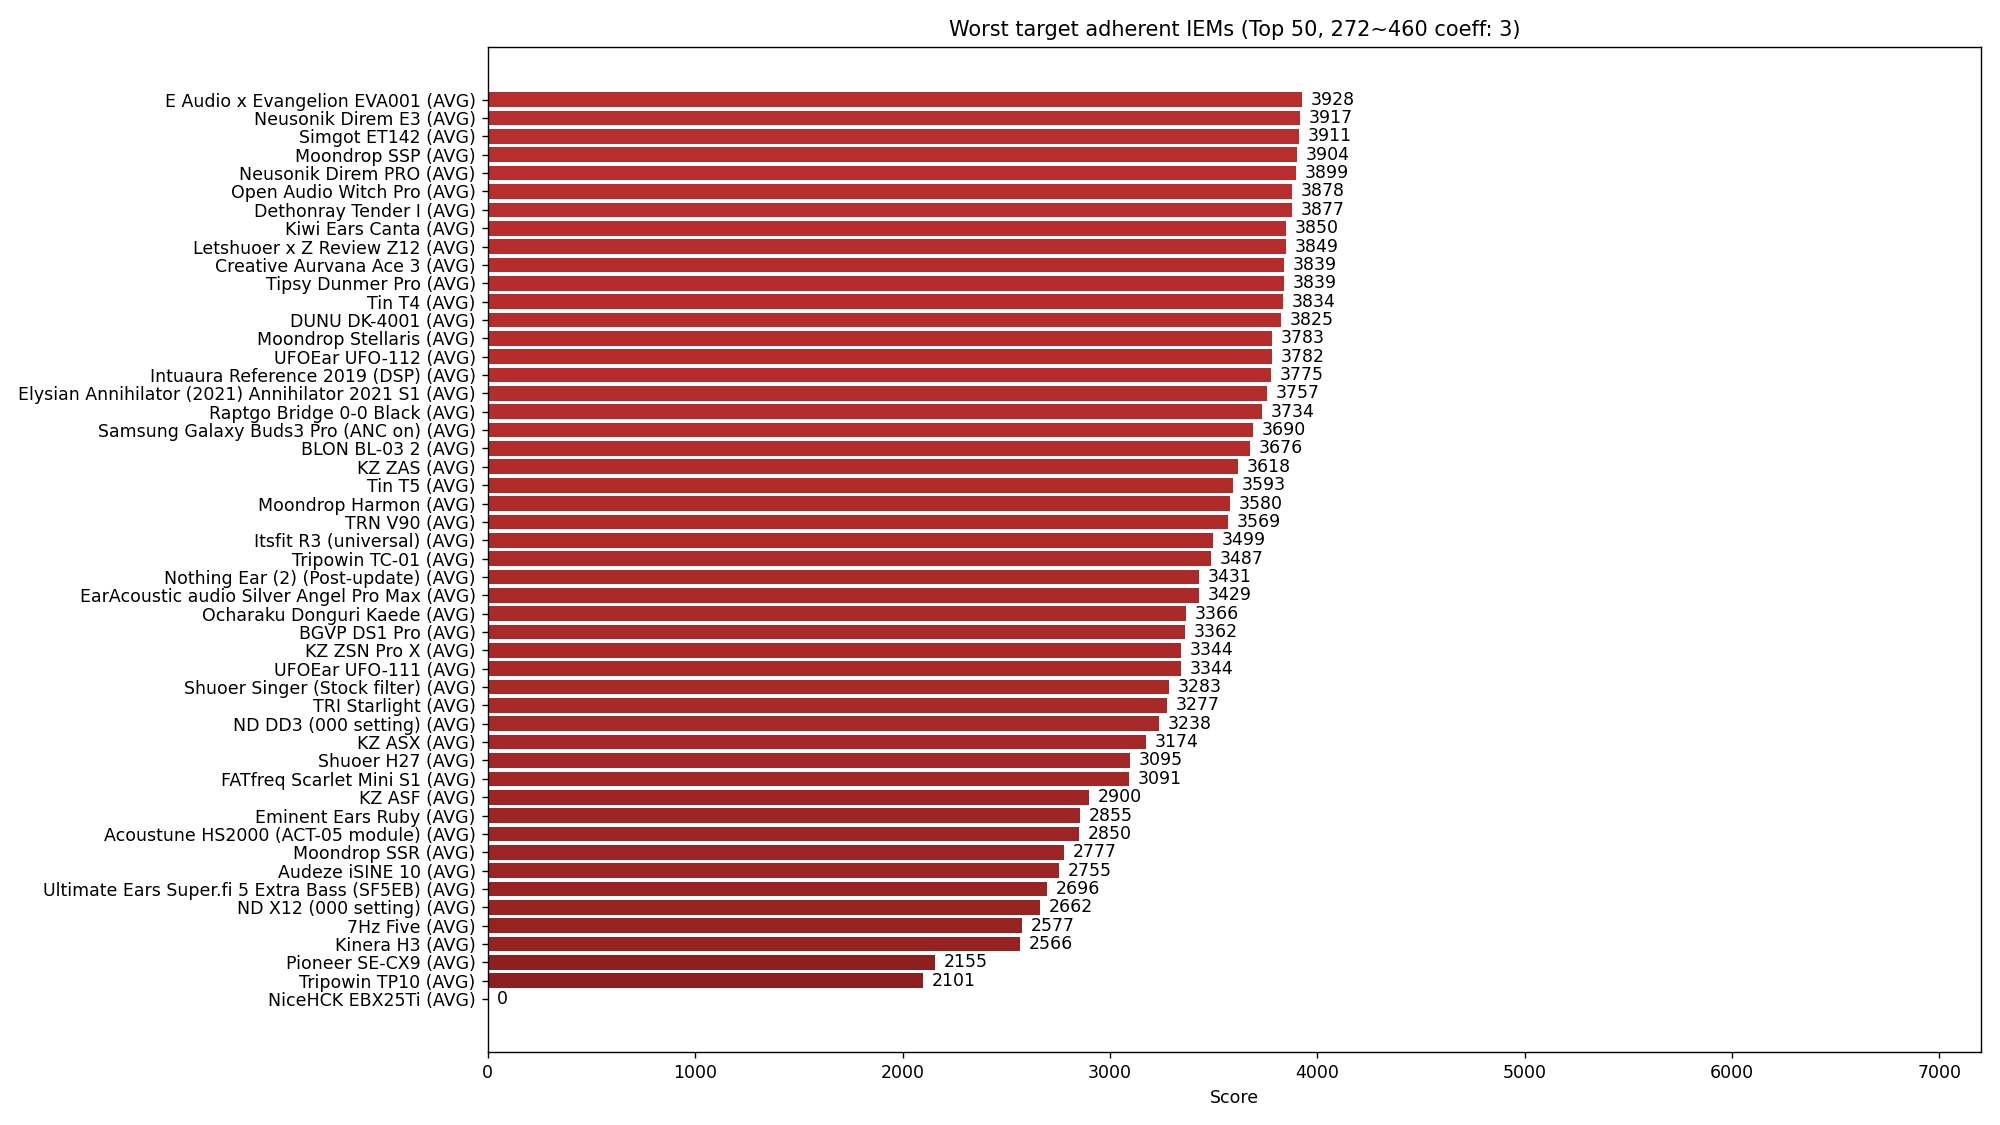
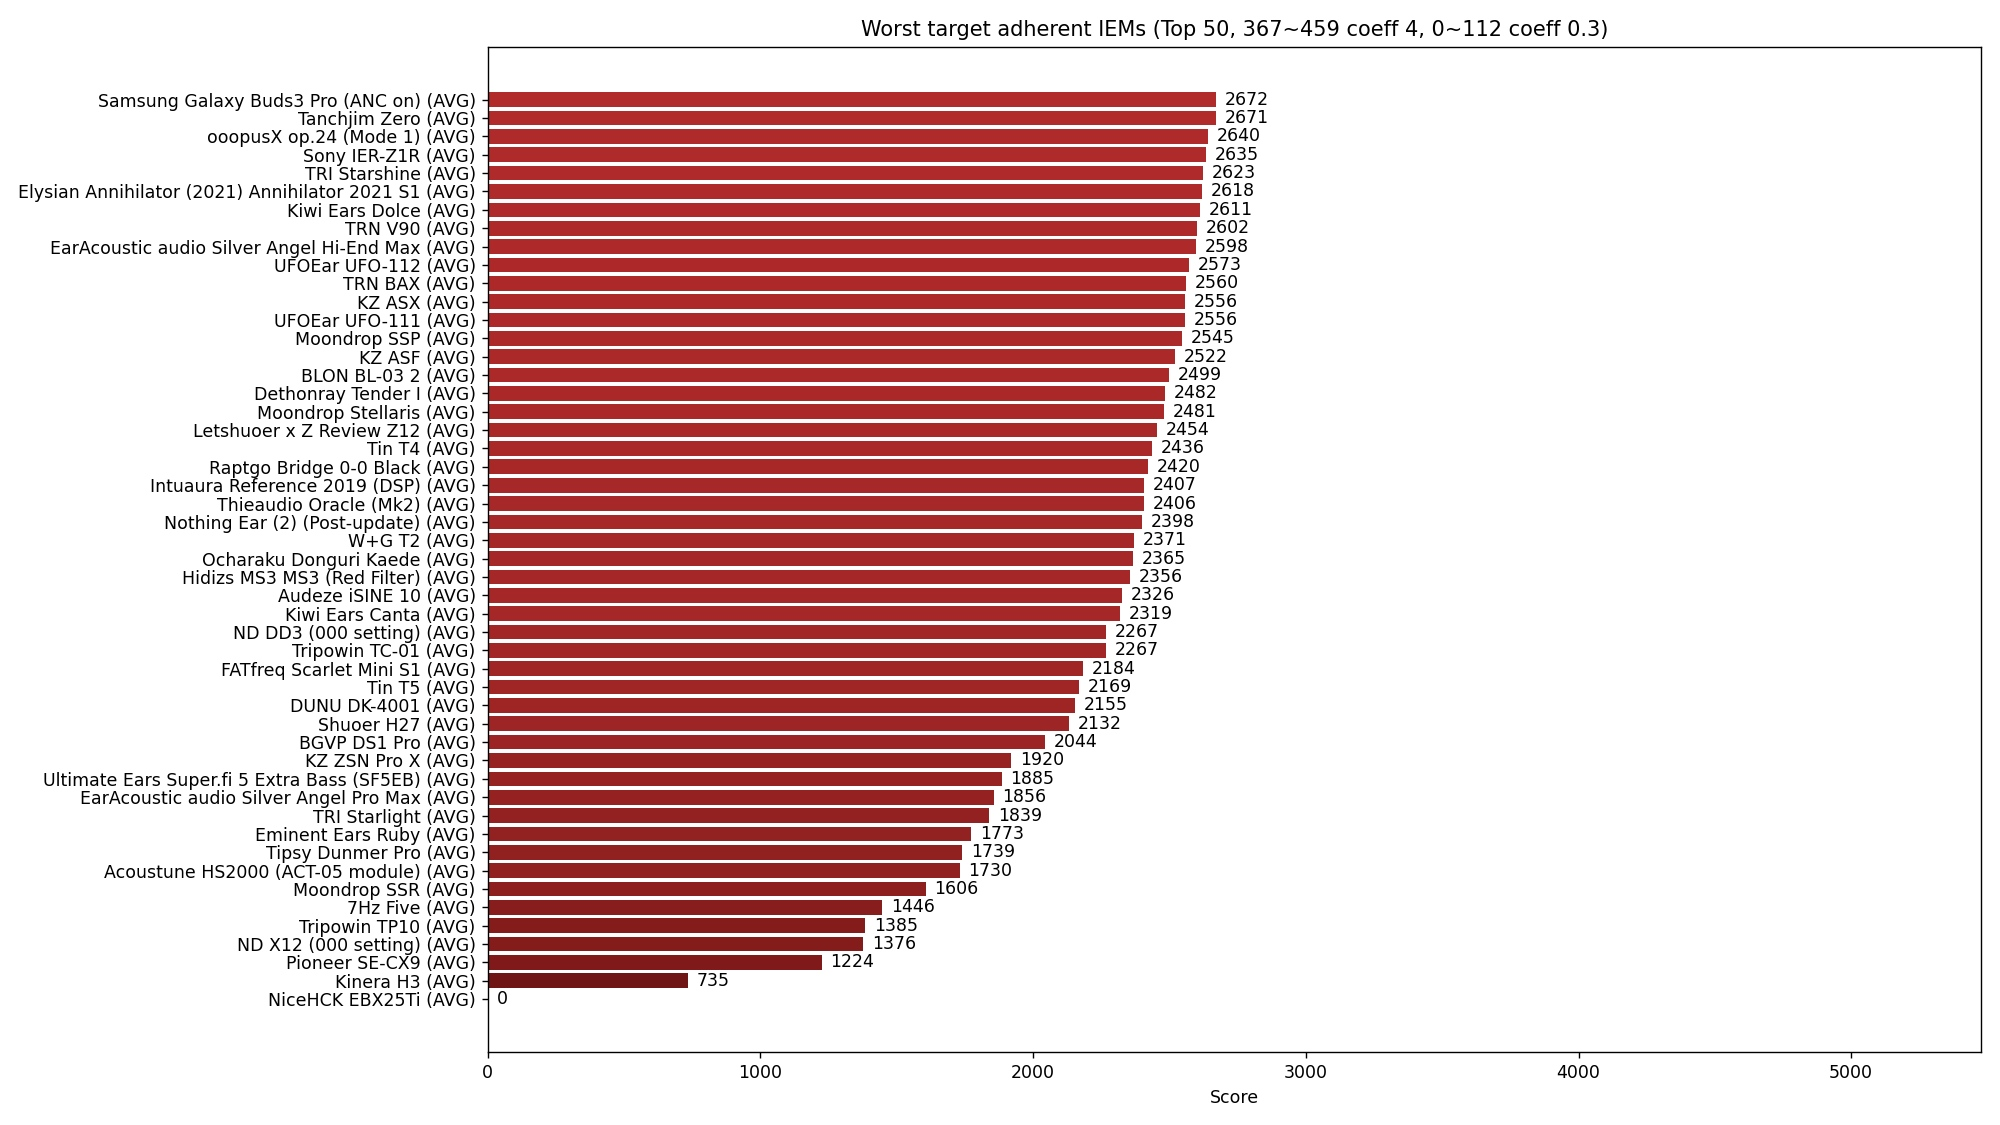
Adjust coeffs

diff --git a/find_closest_fr.py b/find_closest_fr.py
@@ -17,10 +17,17 @@ NORMALIZATION_POINT = 223  # 223 is ~500hz, see generated target from average.py
 NORMALIZATION_SPL = 60  # in dB but probably does not matter
 EXCLUDE_PROJECTS = True  # Excluse prototypes not on the market
 
-# Gives more weight to the upper midrange/treble
-WEIGHT_START = 272  # 272: ~1kHz, 367: ~4kHz
-WEIGHT_END = 460  # 432: ~10kHz, 460: ~17kHz
-COEFF = 3
+# Coeffs
+PINNA_WEIGHT_START = 367  # 272: ~1kHz, 367: ~4kHz
+PINNA_WEIGHT_END = 459  # 432: ~10kHz, 459: ~15kHz
+PINNA_COEFF = 4
+
+BASS_WEIGHT_START = 0
+BASS_WEIGHT_END = 112  # 112: 100Hz
+BASS_COEFF = 0.3
+
+# Ignore FR above x Hz. 463: ~16kHz, should probably not be changed
+DATA_LIMIT = 463
 
 files = sorted(Path().glob(FREQUENCY_RESPONSES))
 frequency_response_dict_unnormalized = {}
@@ -37,6 +44,7 @@ target_freq, target_spl_unnormalized = read_file(TARGET)
 target_spl = normalize(
     np.interp(np.log10(common_freq), np.log10(target_freq), target_spl_unnormalized)
 )
+target_spl_sliced = target_spl[:DATA_LIMIT]
 
 for iem, (freq, spl) in frequency_response_dict_unnormalized.items():
     # Interpolate and normalize spl data
@@ -46,12 +54,16 @@ for iem, (freq, spl) in frequency_response_dict_unnormalized.items():
 # Score the delta vs. the target
 deltas: Dict[str, int] = {}
 weights = np.ones_like(common_freq, dtype=float)
-weights[WEIGHT_START:WEIGHT_END] = COEFF
+weights[PINNA_WEIGHT_START:PINNA_WEIGHT_END] = PINNA_COEFF
+weights[BASS_WEIGHT_START:BASS_WEIGHT_END] = BASS_COEFF
+weights_sliced = weights[:DATA_LIMIT]  # To match list size of target_spl_sliced for np
 
 deltas: Dict[str, int] = {}
 for iem, spl in spl_dict.items():
     if not EXCLUDE_PROJECTS or "project" not in iem.lower():
-        deltas[iem] = int(np.sum(np.abs(target_spl - spl) * weights))
+        deltas[iem] = int(
+            np.sum(np.abs(target_spl_sliced - spl[:DATA_LIMIT]) * weights_sliced)
+        )
 
 deltas = dict(sorted(deltas.items(), key=lambda item: item[1]))
 deltas_iem = list(deltas.keys())
@@ -93,7 +105,7 @@ if GRAPH_OF_SCORES:
 
     plt.xlabel("Score")
     plt.title(
-        f"Most target adherent IEMs (Top {SHOW}, {WEIGHT_START}~{WEIGHT_END} coeff: {COEFF})"
+        f"Most target adherent IEMs (Top {SHOW}, {PINNA_WEIGHT_START}~{PINNA_WEIGHT_END} coeff {PINNA_COEFF}, {BASS_WEIGHT_START}~{BASS_WEIGHT_END} coeff {BASS_COEFF})"
     )
     plt.bar_label(plot, padding=5)
     # Show the hole iem name
@@ -131,7 +143,7 @@ if GRAPH_OF_SCORES:
 
     plt.xlabel("Score")
     plt.title(
-        f"Worst target adherent IEMs (Top {SHOW}, {WEIGHT_START}~{WEIGHT_END} coeff: {COEFF})"
+        f"Worst target adherent IEMs (Top {SHOW}, {PINNA_WEIGHT_START}~{PINNA_WEIGHT_END} coeff {PINNA_COEFF}, {BASS_WEIGHT_START}~{BASS_WEIGHT_END} coeff {BASS_COEFF})"
     )
     plt.bar_label(plot, padding=5)
     # Show the hole iem name

diff --git a/README.md b/README.md
@@ -36,11 +36,15 @@ The following target is their average:
 ![Shewi Target, DFHRTF compliant](graph.png)
 (Happy to see that my old stupid target ("Shewi Target") had almost the correct shape at 10k !)
 
-Coeff: 3 from 4 kHz to 17kHz, 1 otherwise  
-Data points with a logarithmic distribution, see the target txt file.
 
 GRAPHS JUST FOR FUN, again target adherence does not tell the full story.  
 Truthear Pure with narrow bore tips, while being perfectible in the treble, does sound insanely good on my ears though. I currently do not have other IEMs to test in the top.
+
+Coeff set to reward pinna HRTF adherence and attenuate bass importance (way too much data points).  
+Data above 16kHz is ignored in the score calculation.  
+Data points have a logarithmic distribution, see the target txt file.
+
+Issue to solve: bass has way too much weight.
 
 ![Most target adherent IEMs (Top 50, coeff 3 between 1 to 17kHz)](plots/top.jpg)
 ![Worst target adherent IEMs (Top 50, coeff 3 between 1 to 17kHz)](plots/bottom.jpg)